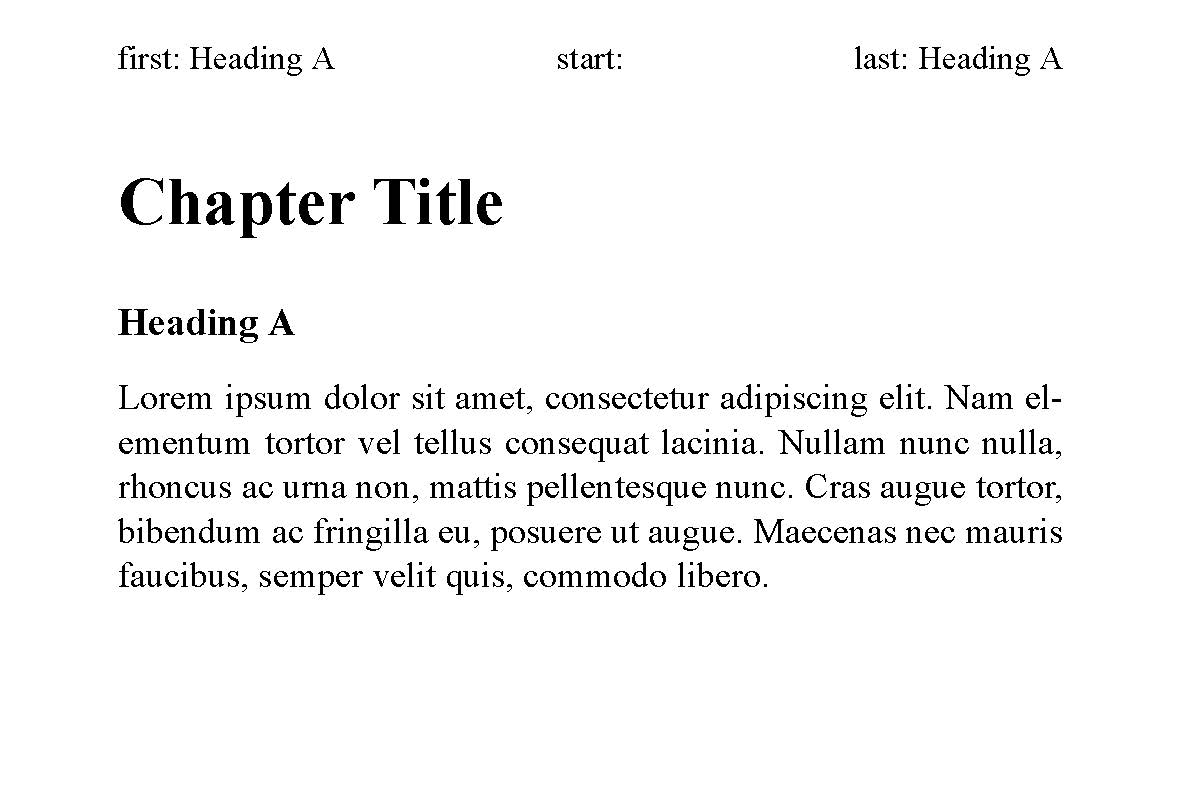
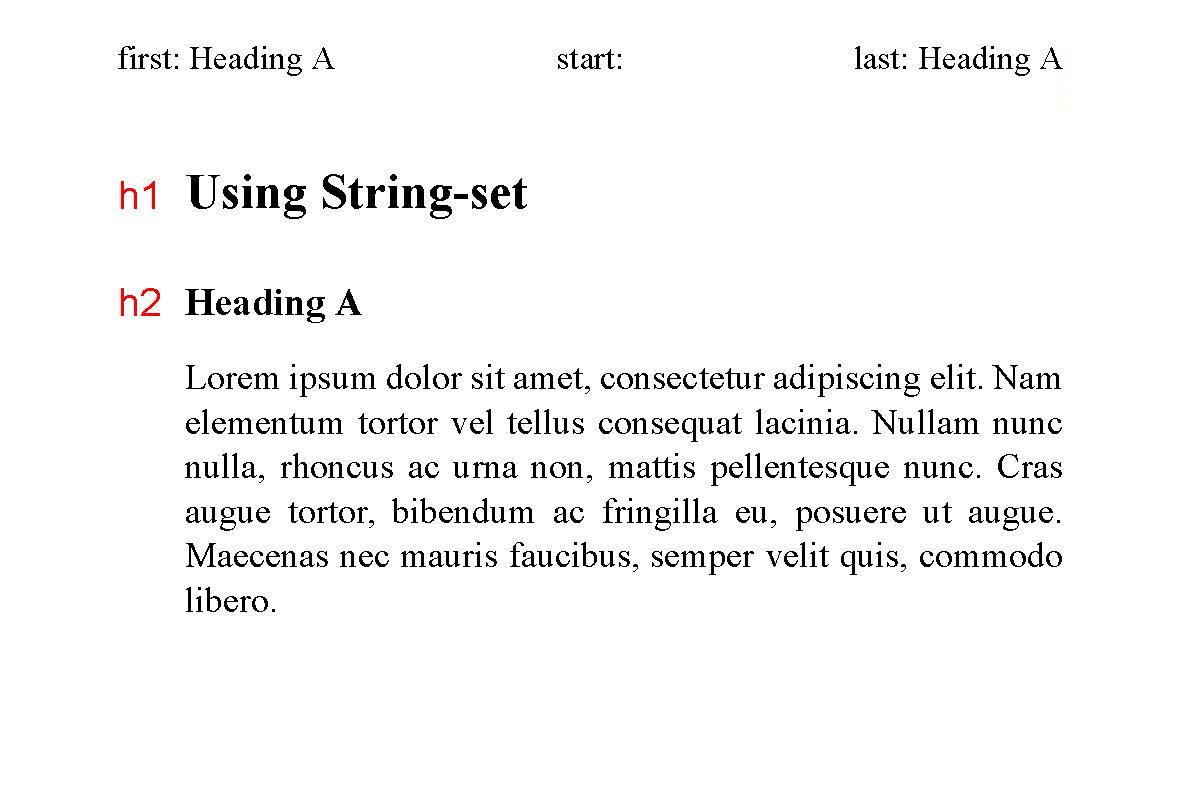
[css3-gcpm] rework example 3 to make it clearer

Changed region(s): [[0.0914, 0.4574, 0.9145, 0.7929], [0.0914, 0.2135, 0.4572, 0.305], [0.0914, 0.3659, 0.3048, 0.4269]]

diff --git a/css-gcpm/Overview.html b/css-gcpm/Overview.html
@@ -54,7 +54,7 @@
 </p>
   <h1 class="p-name no-ref" id=title>CSS Generated Content for Paged Media Module</h1>
   <h2 class="no-num no-toc no-ref heading settled heading" id=subtitle><span class=content>Editor’s Draft,
-    <span class=dt-updated><span class=value-title title=20140131>31 January 2014</span></span></span></h2>
+    <span class=dt-updated><span class=value-title title=20140211>11 February 2014</span></span></span></h2>
   <div data-fill-with=spec-metadata><dl><dt>This version:<dd><a class=u-url href=http://dev.w3.org/csswg/css-gcpm/>http://dev.w3.org/csswg/css-gcpm/</a><dt>Editor’s Draft:<dd><a href=http://dev.w3.org/csswg/css-gcpm/>http://dev.w3.org/csswg/css-gcpm/</a><dt>Previous Versions:<dd><a href=https://dvcs.w3.org/hg/csswg/raw-file/6a5c44d11c2b/css-gcpm/Overview.html rel=previous>https://dvcs.w3.org/hg/csswg/raw-file/6a5c44d11c2b/css-gcpm/Overview.html</a><dd><a href=http://www.w3.org/TR/2011/WD-css3-gcpm-20111129/ rel=previous>http://www.w3.org/TR/2011/WD-css3-gcpm-20111129/</a>
     <dt>Feedback:</dt>
         <dd><a href="mailto:www-style@w3.org?subject=%5Bcss-gcpm%5D%20feedback">www-style@w3.org</a>
@@ -301,18 +301,18 @@ CSS:
    margin: 1.5cm;
    
    @top-left {
-   content: "first: " string(title, first); 
+   content: "first: " string(heading, first); 
    }
    @top-center {
-   content: "start: " string(title, start); 
+   content: "start: " string(heading, start); 
    }
     @top-right {
-    content: "last: " string(title, last); 
+    content: "last: " string(heading, last); 
    }
   }
   
-h2 { string-set: title content() }
-</pre><p>The following figures show the first, start, and last assignments on various pages.
+h2 { string-set: heading content() }
+</pre><p>The following figures show the first, start, and last assignments of the “heading” string on various pages.
 </p><figure>
 <img alt="" src=using-strings-1.jpg width=480>
 <figcaption>The <a href=#string-start>start</a> value is empty, as the string had not yet been set at the start of the page.</figcaption>

diff --git a/css-gcpm/Overview.src.html b/css-gcpm/Overview.src.html
@@ -160,19 +160,19 @@ CSS:
    margin: 1.5cm;
    
    @top-left {
-   content: "first: " string(title, first); 
+   content: "first: " string(heading, first); 
    }
    @top-center {
-   content: "start: " string(title, start); 
+   content: "start: " string(heading, start); 
    }
     @top-right {
-    content: "last: " string(title, last); 
+    content: "last: " string(heading, last); 
    }
   }
   
-h2 { string-set: title content() }
+h2 { string-set: heading content() }
 </pre>
-The following figures show the first, start, and last assignments on various pages.
+The following figures show the first, start, and last assignments of the “heading” string on various pages.
 <figure>
 <img src="using-strings-1.jpg" width="480" alt=""/>
 <figcaption>The <a href="#string-start">start</a> value is empty, as the string had not yet been set at the start of the page.</figcaption>
